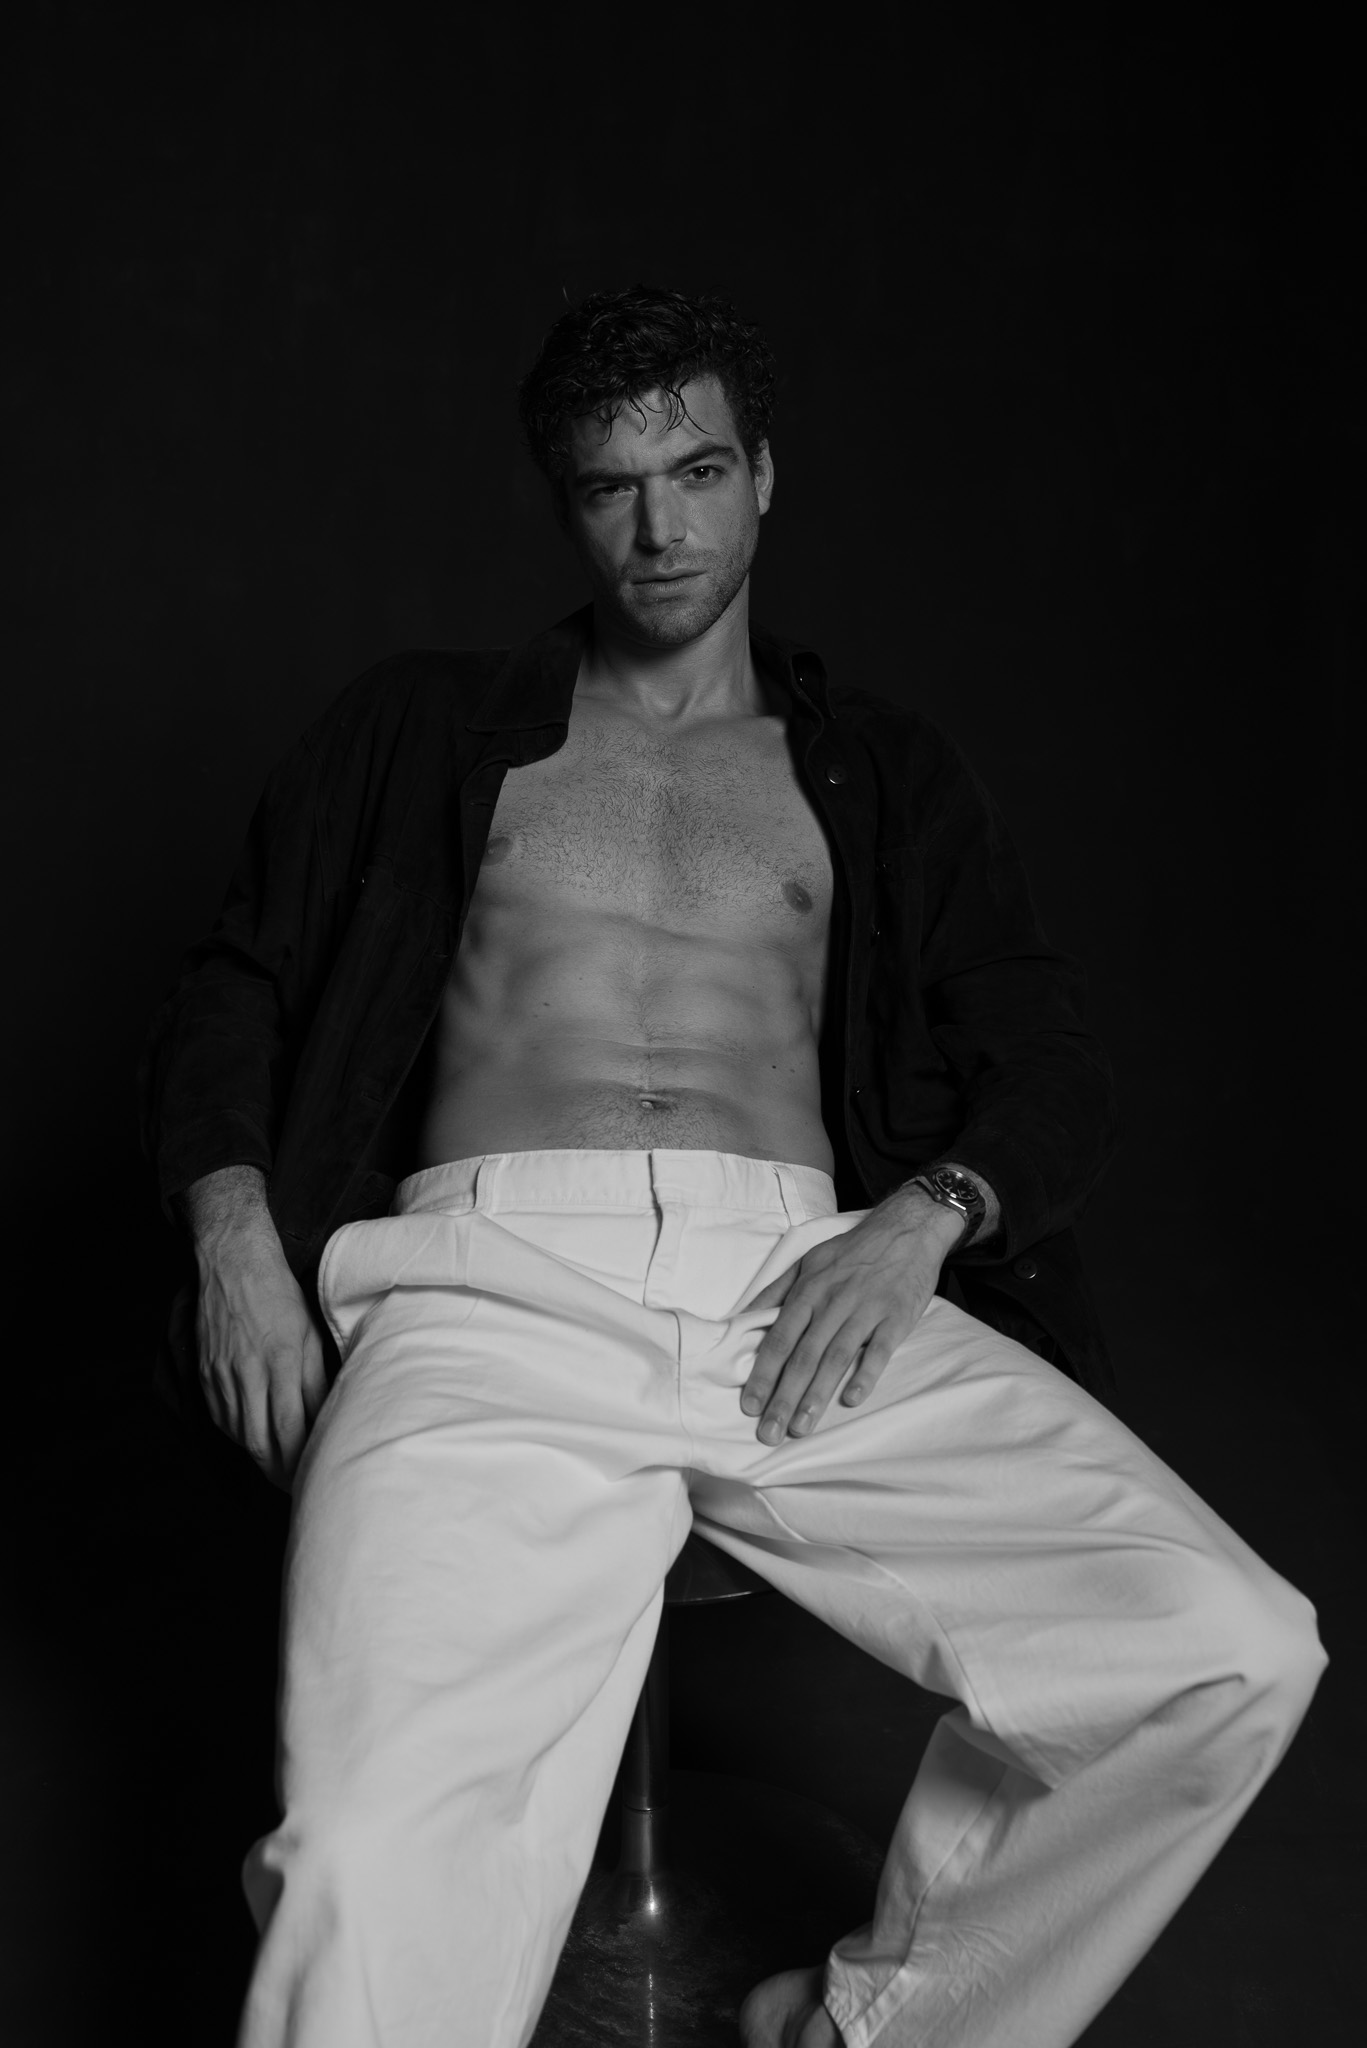
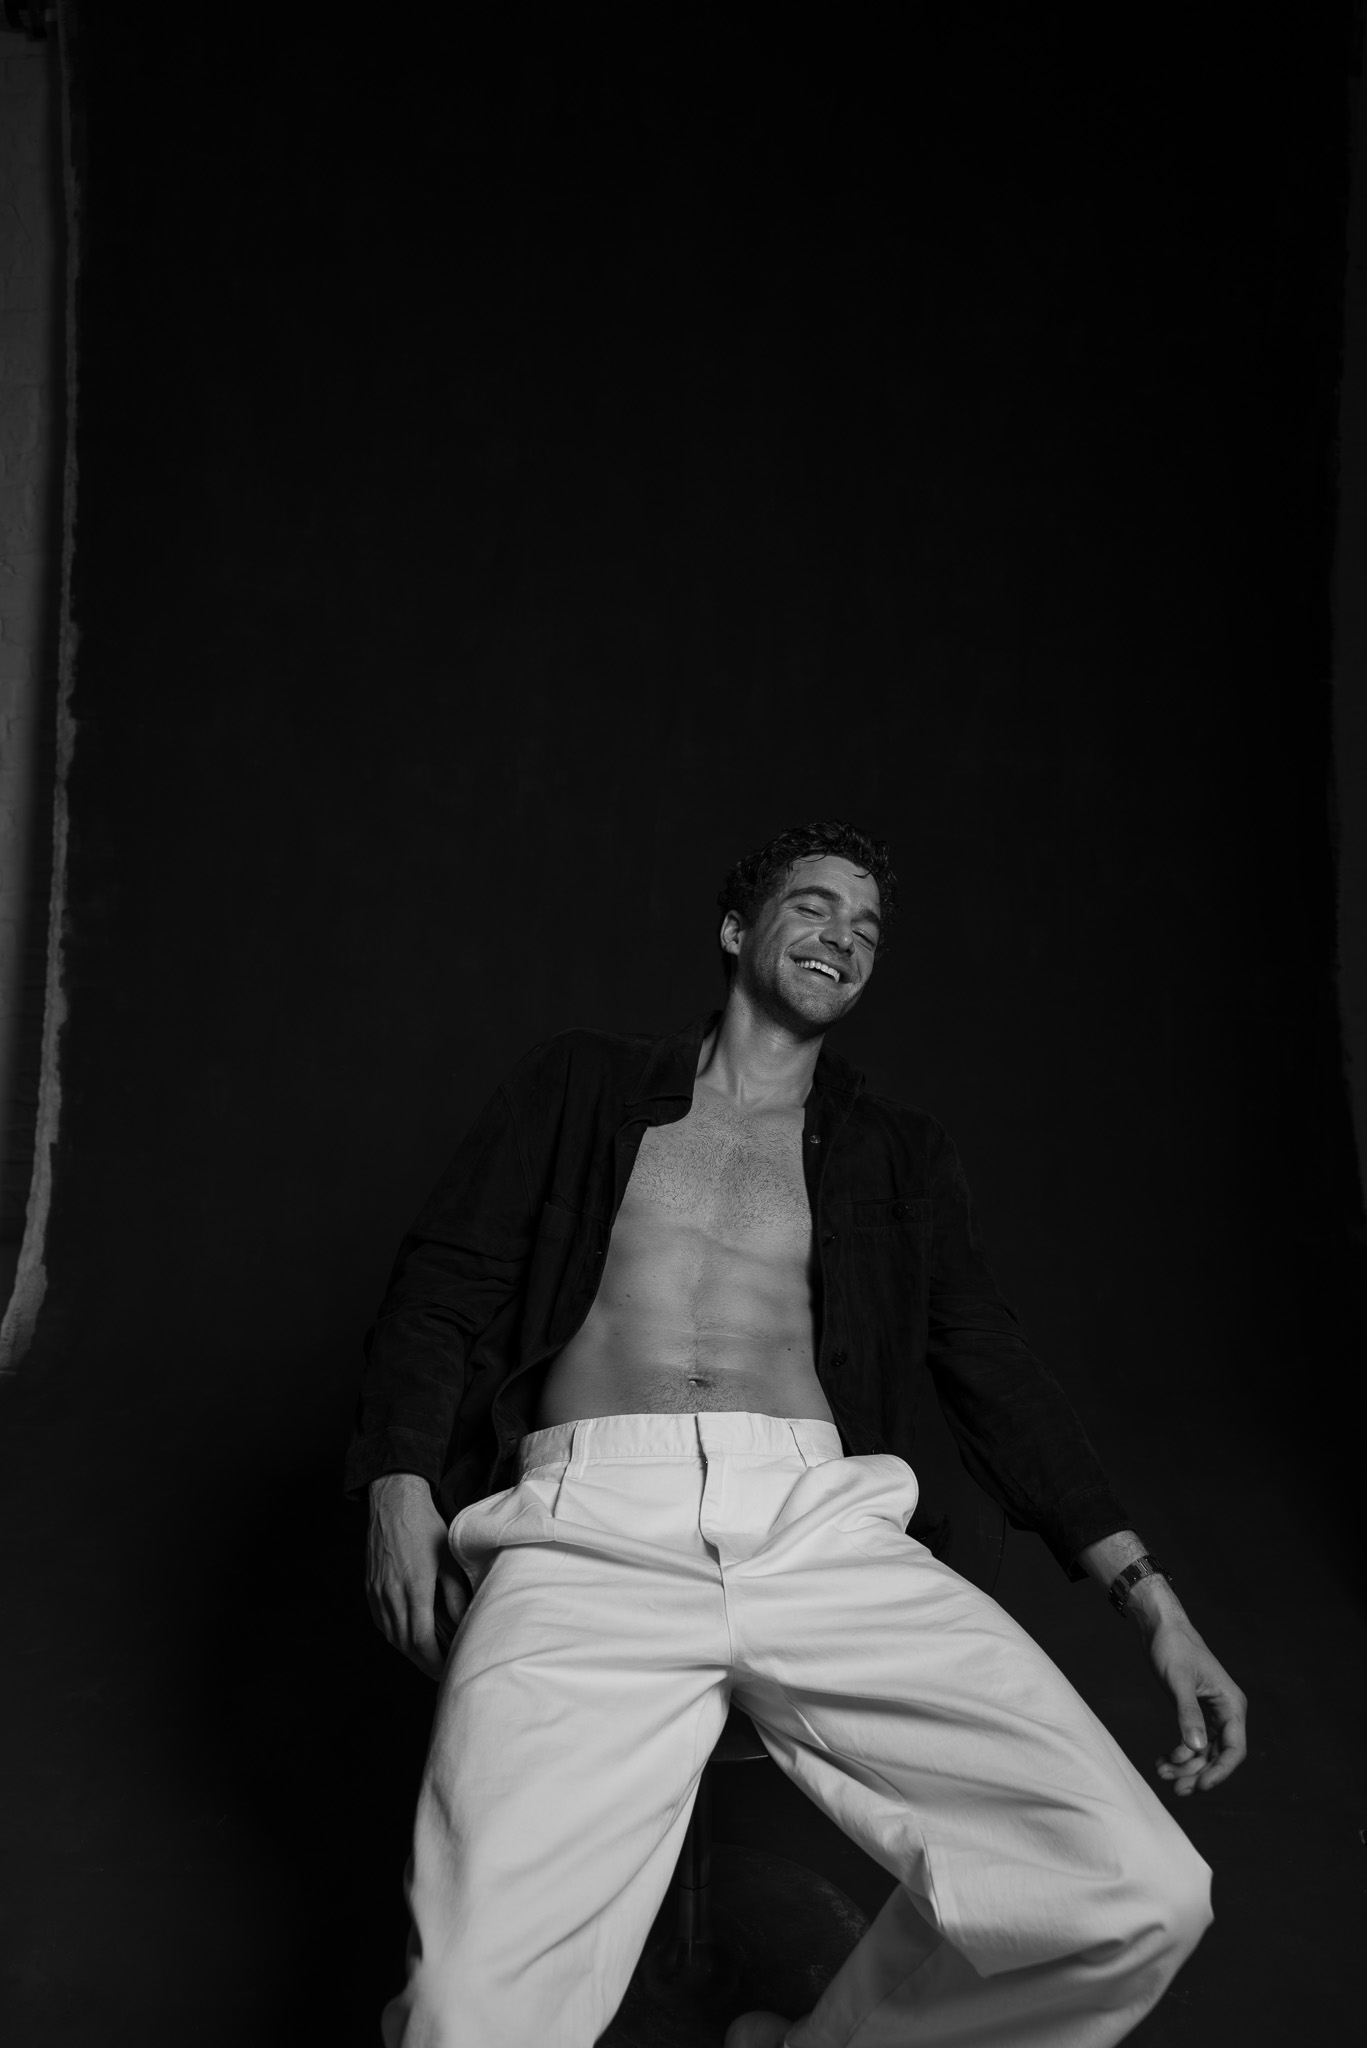
Set Esphan cover to photo 7, remove My Mood photos 1/3, hide series names on portrait tiles except My Mood

diff --git a/src/data/portfolio.ts b/src/data/portfolio.ts
@@ -89,9 +89,7 @@ import portraitArty04 from "@/images/portfolio/portrait/arty/04.jpg";
 import portraitArty05 from "@/images/portfolio/portrait/arty/05.jpg";
 import portraitArty06 from "@/images/portfolio/portrait/arty/06.jpg";
 import portraitMyMoodCover from "@/images/portfolio/portrait/My Mood/cover2.jpg";
-import portraitMyMood01 from "@/images/portfolio/portrait/My Mood/01.jpg";
 import portraitMyMood02 from "@/images/portfolio/portrait/My Mood/02.jpg";
-import portraitMyMood03 from "@/images/portfolio/portrait/My Mood/03.jpg";
 import portraitMyMood04 from "@/images/portfolio/portrait/My Mood/04.jpg";
 import portraitMyMood05 from "@/images/portfolio/portrait/My Mood/05.jpg";
 import portraitMyMood08 from "@/images/portfolio/portrait/My Mood/08.jpg";
@@ -308,7 +306,7 @@ export const categories: CategoryData[] = [
         slug: "my-mood",
         cover: portraitMyMoodCover,
         images: [
-          portraitMyMood01, portraitMyMood02, portraitMyMood03, portraitMyMood04,
+          portraitMyMood02, portraitMyMood04,
           portraitMyMood05, portraitMyMood08, portraitMyMood09, portraitMyMood10,
         ],
       },

diff --git a/src/components/MasonryNav.tsx b/src/components/MasonryNav.tsx
@@ -7,6 +7,7 @@ export type MasonryTile = {
   cover: StaticImageData;
   covers?: StaticImageData[];
   label: string;
+  showLabel?: boolean;
 };
 
 const TILE_SIZES = "(min-width: 1024px) 33vw, (min-width: 640px) 50vw, 100vw";
@@ -34,11 +35,13 @@ export default function MasonryNav({ items }: { items: MasonryTile[] }) {
             />
           )}
           <div className="absolute inset-0 bg-black/20 group-hover:bg-black/40 transition-colors" />
-          <div className="absolute inset-0 flex items-center justify-center">
-            <span className="wordmark font-serif text-2xl sm:text-3xl text-white text-center px-4">
-              {item.label}
-            </span>
-          </div>
+          {item.showLabel !== false && (
+            <div className="absolute inset-0 flex items-center justify-center">
+              <span className="wordmark font-serif text-2xl sm:text-3xl text-white text-center px-4">
+                {item.label}
+              </span>
+            </div>
+          )}
         </Link>
       ))}
     </div>

diff --git a/src/app/[locale]/portfolio/[category]/page.tsx b/src/app/[locale]/portfolio/[category]/page.tsx
@@ -64,6 +64,7 @@ export default async function CategoryPage({
             cover: series.cover,
             covers: isSeriesGroup(series) ? undefined : series.coverImages,
             label: info.series[series.slug] ?? series.slug,
+            showLabel: category !== "portrait" || series.slug === "my-mood",
           }))}
         />
       ) : (
